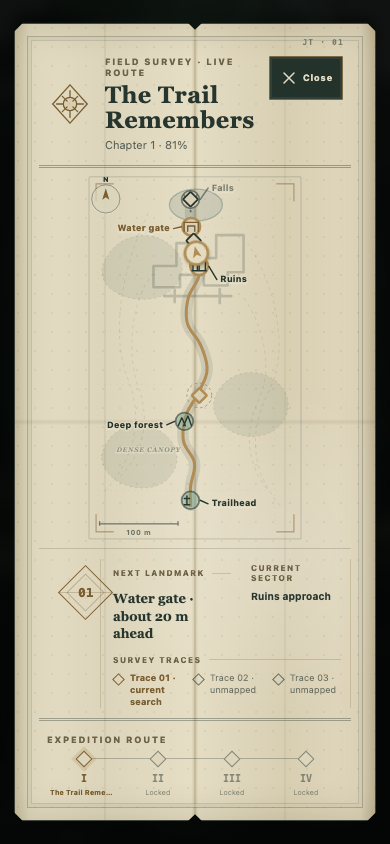
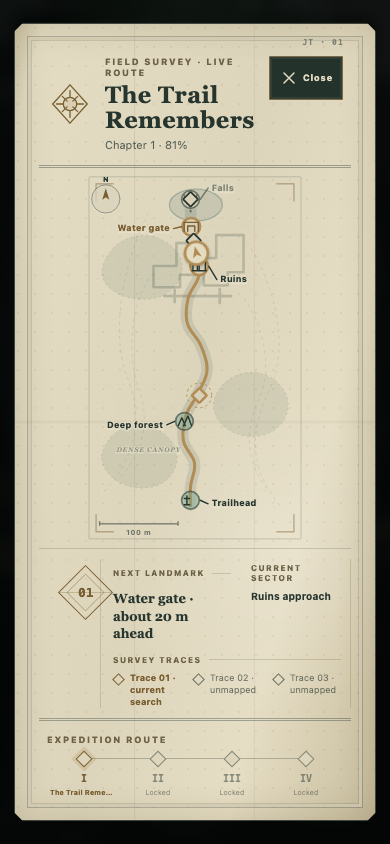
fix: remove book spine from field map

diff --git a/src/ui.css b/src/ui.css
@@ -157,12 +157,12 @@ button { font: inherit; -webkit-tap-highlight-color: transparent; touch-action: 
 .jt-map__sheet { position: relative; isolation: isolate; width: min(100%, 680px); max-height: 100%; overflow-x: hidden; overflow-y: auto; padding: 22px 24px 18px; border: 1px solid rgba(19,29,25,.78); background:
   radial-gradient(circle at 18% 21%, rgba(75,64,36,.07) 0 1px, transparent 1.4px) 0 0/17px 19px,
   radial-gradient(circle at 72% 66%, rgba(255,255,255,.16), transparent 28%),
-  linear-gradient(90deg, #cfc6a8 0, #e3dcc3 4%, #ddd5bb 25%, #e5ddc4 49%, #d0c6a8 50%, #e4dcc3 51%, #d8cfb3 75%, #e0d7bd 96%, #c5ba9b 100%);
+  linear-gradient(105deg, #cfc6a8 0, #e3dcc3 5%, #ddd5bb 48%, #e5ddc4 74%, #c8bd9e 100%);
   box-shadow: 0 32px 90px rgba(0,0,0,.68), 0 0 0 5px #17231d, 0 0 0 7px rgba(177,141,85,.38), inset 0 0 38px rgba(80,64,32,.2);
-  clip-path: polygon(0 9px, 9px 0, 48% 0, 50% 7px, 52% 0, calc(100% - 9px) 0, 100% 9px, 100% calc(100% - 9px), calc(100% - 9px) 100%, 52% 100%, 50% calc(100% - 7px), 48% 100%, 9px 100%, 0 calc(100% - 9px));
+  clip-path: polygon(0 9px, 9px 0, calc(100% - 9px) 0, 100% 9px, 100% calc(100% - 9px), calc(100% - 9px) 100%, 9px 100%, 0 calc(100% - 9px));
   animation: jt-map-open 220ms var(--jt-ease);
 }
-.jt-map__sheet::before { content: ""; position: absolute; z-index: 1; inset: 0; background: linear-gradient(90deg, transparent 24.7%, rgba(67,54,31,.12) 25%, transparent 25.3%, transparent 49.6%, rgba(67,54,31,.15) 50%, transparent 50.4%, transparent 74.7%, rgba(67,54,31,.1) 75%, transparent 75.3%), linear-gradient(transparent 49.6%, rgba(67,54,31,.09) 50%, transparent 50.4%); pointer-events: none; }
+.jt-map__sheet::before { content: ""; position: absolute; z-index: 1; inset: 0; background: linear-gradient(90deg, transparent 32.9%, rgba(67,54,31,.075) 33.2%, transparent 33.5%, transparent 66.2%, rgba(67,54,31,.065) 66.5%, transparent 66.8%), linear-gradient(transparent 49.7%, rgba(67,54,31,.055) 50%, transparent 50.3%); pointer-events: none; }
 .jt-map__sheet::after { content: ""; position: absolute; z-index: 0; inset: 12px; border: 1px solid rgba(42,52,45,.26); box-shadow: inset 0 0 0 3px rgba(216,209,184,.7), inset 0 0 0 4px rgba(42,52,45,.14); pointer-events: none; }
 .jt-map__cover { display: none; }
 .jt-map__folio { position: absolute; z-index: 3; right: 31px; top: 15px; color: rgba(39,53,47,.54); font: 700 8px/1 ui-monospace, SFMono-Regular, Menlo, monospace; letter-spacing: .14em; }

diff --git a/doc/visual.md b/doc/visual.md
@@ -66,7 +66,7 @@
 - 所有按钮触控目标至少 44×44 px；摇杆外环 112 px，内核 44 px，并增加 62% 步行/快走分界刻度。
 - 顶部调查牌：深墨绿半透明底、左侧章节徽记、右侧两行信息；第一行是地标名与路线百分比，第二行是细进度轨与线索 `n/3`。两端用直角括号和铜金小刻度建立仪器感。
 - 右上工具栏：地图、声音、暂停纵向排列在一条细框导轨内；激活状态使用氧化绿实心小标，不靠发光。
-- 地图面板：全屏深绿遮罩上展开一张暖灰野外测绘图；纸张有四折压痕、纤维噪点、双线页框、边缘缺口与克制的植物学线描。路线占据主要绘图区，目标与线索整理在地图下方；保留铜色调查印章与页码，不使用厚重书脊或左右分页。
+- 地图面板：全屏深绿遮罩上展开一张暖灰野外测绘图；纸张只有均匀浅淡的三折压痕、纤维噪点、连续双线页框、自然切角与克制的植物学线描。路线占据主要绘图区，目标与线索整理在地图下方；保留铜色调查印章与页码，禁止中央书脊、上下中缝凹口、左右分页色差和任何暗示翻页的装饰。
 - 地图路线：由当前章节真实路径采样点按统一米制比例投影，保持真实弯道方向和横向位移；玩家与证据使用真实世界坐标。路线不为了填满纸页而改成装饰性 S 曲线。玩家是可旋转的铜金方向针，线索是菱形测绘钉，已记录填充、未发现空心、当前目标带双圈。
 - 地图参照层：用低对比等高线、林冠簇、石灰遗迹平面与蓝灰终点水池建立地貌；用 5 个带编号/图形的地标节点和场景同名标签建立“画面 ↔ 地图”对应。没有真实世界坐标的数据不画成具体水道；地貌低于路线，地标高于线索，玩家针最高。
 - 地图读数：左上角北针、下方 `0–100 m` 比例尺、当前分区、下一地标与约剩余距离。北向固定为世界 `-Z`；比例尺与路线使用同一投影比例。朝向针根据玩家真实视角旋转，不伪装成 GPS 定位精度。
@@ -103,13 +103,14 @@
 - 用户参考一：提炼顶部地区状态牌、底部工具入口和低多边形场景之上的高对比信息层；不复制货币、战斗技能或沙漠色调。
 - 用户参考二：提炼直角括号、模块化工具槽与明确选中状态；不复制邀请、治疗或背包战斗逻辑。
 - 用户参考三：提炼折叠纸地图、节点路线、当前位置针和“发现目标”的旅程感；改造成单章实时测绘地图，不做静态关卡选择海报。
-- 用户参考四：第一张提炼章节签条、细线页框和调查印章；第二张作为主结构，提炼单张折叠地图、路线主导、节点挂接和底部目标说明。地图在移动端保持完整绘图区，不复制宗教符号、技能树、车辆、人物、红黑配色或原游戏的具体纹样。
+- 用户参考四：第二张作为唯一结构参考，提炼单张折叠地图、路线主导、节点挂接和底部目标说明；第一张只保留细线页框与调查印章，不采用书本形态。地图在移动端保持完整绘图区，不复制宗教符号、技能树、车辆、人物、红黑配色或原游戏的具体纹样。
 
 ## 10. Anti-patterns
 
 - 禁止 Emoji、彩色扁平图标、混用线性和填充图标。
 - 禁止霓虹描边、渐变按钮、大片玻璃卡、夸张发光、彩纸奖励和游戏化金币。
 - 禁止把地图做成无状态截图、雷达小圆盘或精确 GPS 导航；禁止让地图常驻遮住场景。
+- 禁止在单张地图中绘制中央书脊、分页阴影、上下中缝凹口或其他没有翻页功能支撑的书册造型。
 - 禁止为了外部访客栏永久下移相机或缩小游戏主体。
 - 禁止把完成状态做成遮住瀑布的居中大弹窗。
 - 禁止将头像贴在 HUD 或把用户名刻进场景来伪造个性化。

diff --git a/doc/requirements.md b/doc/requirements.md
@@ -33,7 +33,7 @@
 - 入口仍先展示真实章节场景，完成短镜头观察后停止 RAF；点击只接管控制并解锁音频。
 - HUD 使用“野外调查仪器”语言：暗叶绿仪表板、暖白纸张、铜金刻度、氧化绿状态；功能图标全部使用同一套 2px 描边 SVG，禁止 Emoji。
 - 顶部调查牌同时呈现章节编号、地标、路线百分比与线索 `n/3`；右上工具栏提供地图、声音和暂停，均为至少 `44×44 px` 的真实功能按钮。
-- 地图为暂停式单张折叠测绘图：显示当前章节路线、玩家实时位置与朝向、3 条证据的未发现/当前/已记录状态、5 个真实地标节点、全四章解锁状态；关闭后回到原位置继续游戏。
+- 地图为暂停式单张折叠测绘图：纸面只有均匀、浅淡的折叠压痕，不使用中央书脊、左右分页色差或模拟翻页缺口；显示当前章节路线、玩家实时位置与朝向、3 条证据的未发现/当前/已记录状态、5 个真实地标节点、全四章解锁状态；关闭后回到原位置继续游戏。
 - 地图路线必须由当前章节 `Trail.samples` 的世界坐标按统一米制比例投影；玩家与证据使用各自真实 `x/z` 坐标，不得再投到固定示意曲线上。地图提供可与场景互证的深林密区、遗迹基座、终点水池、比例尺，以及“下一地标 + 约剩余米数”。五个地标沿用 HUD 的章节地标名称与实际进度阈值 `0.02 / 0.27 / 0.74 / 0.86 / 0.955`，不得使用无语义的装饰点代替。
 - 章节结算退居底部安全区，保留大型地标继续可观察，不使用遮满画面的结果卡。
 - 原作没有可替换的照片或文字输入，不强行加入玩家头像或用户名。

diff --git a/doc/technical.md b/doc/technical.md
@@ -69,7 +69,7 @@
 
 折叠地图不创建第二套 Three.js 场景。`src/main.js` 在打开地图时读取当前章节 `Trail.samples`，每 8 个采样点取一点，在固定 SVG 画框内用统一米制比例投影真实 `x/z`；世界 `-Z` 固定朝北。路线底线、已走路线和通行带共用这条动态 path。玩家使用 `walker.pos.x/z`，证据优先使用 `observationAnchors` 的真实坐标，5 个地标使用 `Trail.pointAt()` 与 HUD 相同的 `0.02 / 0.27 / 0.74 / 0.86 / 0.955` 阈值。方向针将相机 yaw 与世界/纸面路径切线组合；下一地标距离由真实 `Trail.length × 进度差` 估算；100 m 比例尺与路线使用相同缩放。林冠区、遗迹平面、水池、网格和等高线仍是低对比语义参照，不代表逐棵植被或逐块地形测绘。地图 DOM 只在打开时更新，关闭后没有逐帧开销。
 
-`Ambience.playClueHint()` 使用等功率 `PannerNode` 从证据世界位置播放短促双音，第三章因此天然支持左右方向比较；静音时 UI 外缘方位刻度提供等价视觉信息。所有 HUD、面板和章节按钮在 320×568 保持无溢出，触控动作至少 44×44 px。
+`Ambience.playClueHint()` 使用等功率 `PannerNode` 从证据世界位置播放短促双音，第三章因此天然支持左右方向比较；静音时 UI 外缘方位刻度提供等价视觉信息。地图纸面由 CSS 生成两条等权竖向折痕和一条浅横折痕，没有书脊或分页 DOM。所有 HUD、面板和章节按钮在 320×568 保持无溢出，触控动作至少 44×44 px。
 
 ## 4. 扩展点
 

diff --git a/_qa/ui/REPORT.md b/_qa/ui/REPORT.md
@@ -66,6 +66,14 @@
 - Fix: changed the structure to a single fold-out survey sheet with four paper creases, fibrous print texture, double registration frame, folio mark and survey seal. The map is full-width; objective, sector and traces form a compact measured band beneath it.
 - Recheck: matched 390×844 and 320×568 captures show the full true route, readable English/Chinese labels, no page overflow, zero horizontal sheet scroll and all controls at least 44 px.
 
+### P2 — Central fold still read as a decorative book spine
+
+- Evidence: the first fold-out map capture from commit `d0da0cb`.
+- Observation: a darker centre crease, left/right paper colour split and matching notches at the top and bottom made the single map look like two bound pages.
+- Impact: the surface implied a page-turning function that does not exist and competed visually with the true route running near the centre.
+- Fix: removed the centre spine, centre notches and page-to-page colour split. The paper now has two equally light vertical fold marks plus one shallow horizontal fold, matching a single field map.
+- Recheck: matched 390×844 and 320×568 captures retain the continuous outer frame and complete route without a dark line underneath it.
+
 ### P1 — Upper landmark labels overlapped
 
 - Evidence: first enhanced 390×844 and 320×568 map captures.
